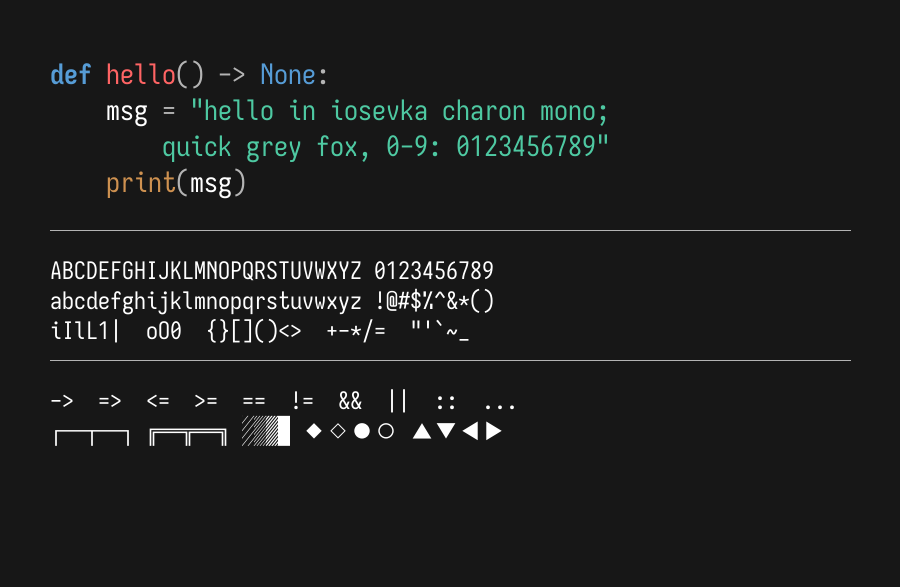
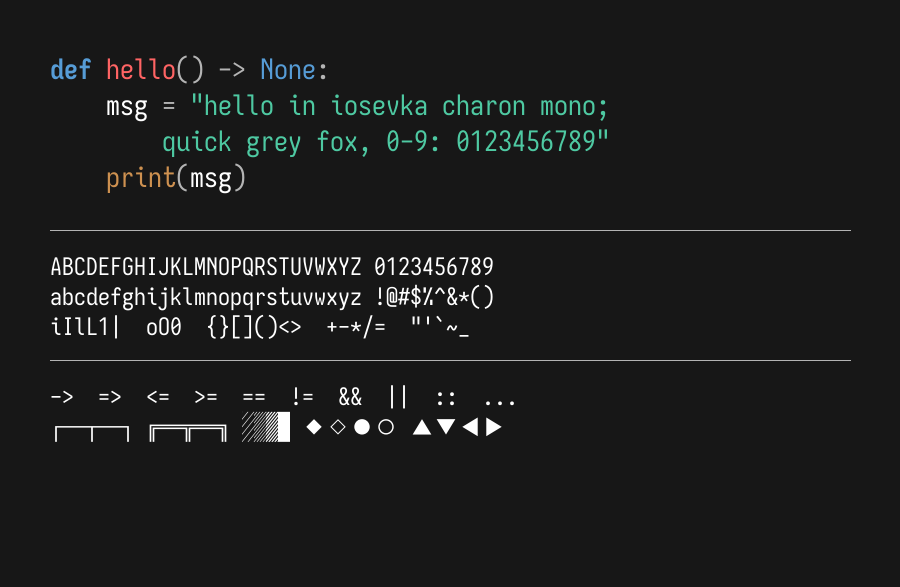
Adjust vertical metrics balance and publish prereleases

diff --git a/scripts/fix_fonts.py b/scripts/fix_fonts.py
@@ -30,8 +30,9 @@ import unicodedata
 # but hhea metrics control line spacing (keep tighter like original Iosevka)
 TARGET_WIN_ASCENT = 1198  # Fontspector requires this to cover all glyphs
 TARGET_WIN_DESCENT = 604  # Fontspector requires this to cover all descenders
-TARGET_HHEA_ASCENDER = 975  # Slightly above original 965 to cover tallest glyphs
-TARGET_HHEA_DESCENDER = -255  # Slightly below original -215 for descenders
+TARGET_HHEA_ASCENDER = 1015  # Mildly increase total height for looser leading
+TARGET_HHEA_DESCENDER = -265  # Mildly increase total height for looser leading
+TARGET_HHEA_LINE_GAP = 0  # Keep gap at zero for GF compliance
 
 def fix_font_revision(font):
     """Fix font revision and nameID5 to exact value (Version 32.5.0)."""
@@ -76,19 +77,19 @@ def fix_vertical_metrics(font):
     # but hhea/Typo metrics control line spacing (keep tighter)
     font['hhea'].ascender = TARGET_HHEA_ASCENDER
     font['hhea'].descender = TARGET_HHEA_DESCENDER
-    font['hhea'].lineGap = 0
+    font['hhea'].lineGap = TARGET_HHEA_LINE_GAP
 
     # Typo metrics should match hhea for consistency
     font['OS/2'].sTypoAscender = TARGET_HHEA_ASCENDER
     font['OS/2'].sTypoDescender = TARGET_HHEA_DESCENDER
-    font['OS/2'].sTypoLineGap = 0
+    font['OS/2'].sTypoLineGap = TARGET_HHEA_LINE_GAP
 
     # Enable USE_TYPO_METRICS flag (bit 7) so apps use Typo instead of Win for line spacing
     font['OS/2'].fsSelection |= (1 << 7)
 
-    total_height = font['hhea'].ascender - font['hhea'].descender
+    total_height = font['hhea'].ascender - font['hhea'].descender + font['hhea'].lineGap
     print(f"  ✓ Fixed hhea metrics: ascender={font['hhea'].ascender}, "
-          f"descender={font['hhea'].descender}, total={total_height}")
+          f"descender={font['hhea'].descender}, lineGap={font['hhea'].lineGap}, total={total_height}")
     print(f"  ✓ Fixed Typo metrics to match hhea (USE_TYPO_METRICS enabled)")
     return True
 
